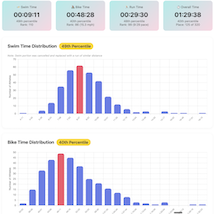
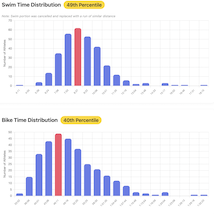
add Triathlon Analysis project

diff --git a/projects/triathlon.md b/projects/triathlon.md
@@ -1,20 +1,27 @@
 ---
 layout:    project
-title:     "Triathlon"
+title:     "Triathlon Analysis"
 link:      "https://triathlon.woolgathering.io/"
 date:      "November 2025"
-goal:      "Figure out how I did relative to others in the distribution of finish times."
+goal:      "Understand how I did relative to others in a recent triathlon."
 languages: "HTML & CSS"
 infra:     "Vercel serverless"
 apis:      "N/A"
 repo_name: "triathlon"
 ---
 
+I recently participated in my first triathlon. (Yay me!) Afterwards, the race organizers provided the race results in a 32-page PDF that listed each athlete, their finish time for each leg of the event, and the finishing position for each athlete relative to others in their same gender and age group. However, there were only 19 participants for my age and gender. I was curious how I did relative to a larger sample size including a wider range of age and gender.
+
+I was able to complete this project in about 4 hours. The hardest part was parsing the dataset from a 32-page PDF with inconsistent formatting.
+
+I was able to make this dataset machine-readable by feeding it to Claude and asking it to use OCR to extract each participant's race times and append it to a CSV. This took a bit of manual effort and iteration, but eventually we got there.
+
+
 ![See how the page looks before any athlete is selected](../assets/2025-11-27-triathlon-no-athlete.png)
-*See how the page looks before any athlete is selected*
+*This is how the page looks before any athlete is selected*
 
 ![See how the athlete name auto-complete feature works](../assets/2025-11-27-triathlon-autocomplete.png)
-*See how the athlete name auto-complete feature works*
+*This is how the athlete name auto-complete feature works*
 
 ![See percentile distributions for a given athlete](../assets/2025-11-27-triathlon-percentiles.png)
 *See percentile distributions for a given athlete*
